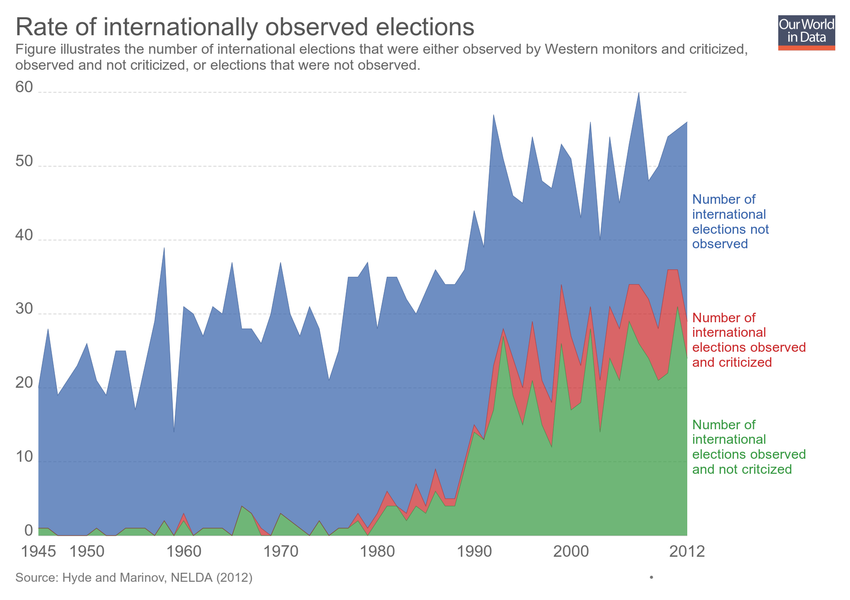
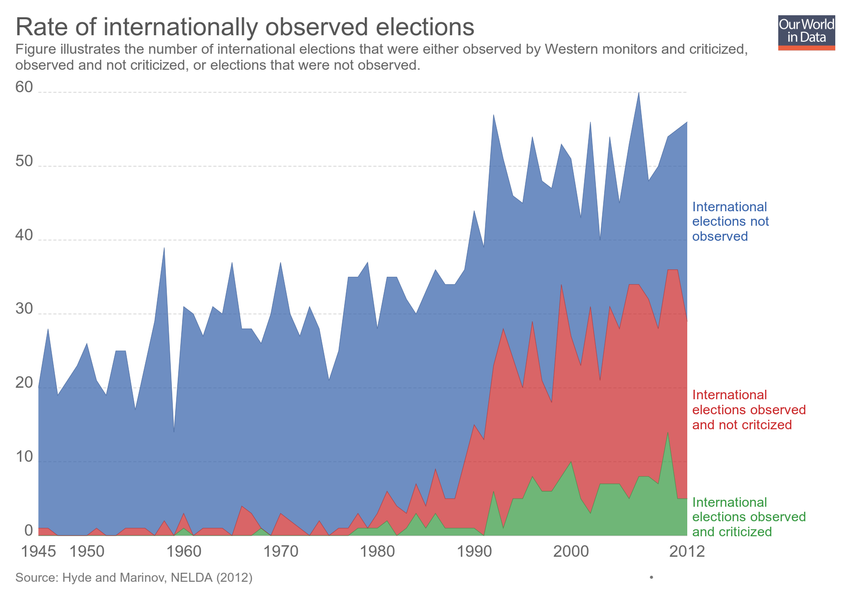
Updating chart rate-of-internationally-observed-elections

Changed region(s): [[0.0918, 0.51, 0.9482, 0.9], [0.7953, 0.33, 0.9176, 0.42], [0.0306, 0.87, 0.0612, 0.9]]

diff --git a/grapher/rate-of-internationally-observed-elections.html b/grapher/rate-of-internationally-observed-elections.html
@@ -1,4 +1,4 @@
-<!doctype html><html><head><meta name="viewport" content="width=device-width, initial-scale=1" /><title>Rate of internationally observed elections - Our World in Data</title><meta name="description" content="Figure illustrates the number of international elections that were either observed by Western monitors and criticized, observed and not criticized, or elections that were not observed." /><link rel="canonical" href="https://ourworldindata.org/grapher/rate-of-internationally-observed-elections" /><meta property="fb:app_id" content="1149943818390250" /><meta property="og:url" content="https://ourworldindata.org/grapher/rate-of-internationally-observed-elections" /><meta property="og:title" content="Rate of internationally observed elections" /><meta property="og:description" content="Figure illustrates the number of international elections that were either observed by Western monitors and criticized, observed and not criticized, or elections that were not observed." /><meta property="og:image" content="https://ourworldindata.org/grapher/exports/rate-of-internationally-observed-elections.png?v=1" /><meta property="og:image:width" content="850" /><meta property="og:image:height" content="600" /><meta property="og:site_name" content="Our World in Data" /><meta name="twitter:card" content="summary_large_image" /><meta name="twitter:site" content="@OurWorldInData" /><meta name="twitter:creator" content="@OurWorldInData" /><meta name="twitter:title" content="Rate of internationally observed elections" /><meta name="twitter:description" content="Figure illustrates the number of international elections that were either observed by Western monitors and criticized, observed and not criticized, or elections that were not observed." /><meta name="twitter:image" content="https://ourworldindata.org/grapher/exports/rate-of-internationally-observed-elections.png?v=1" /><style>
+<!doctype html><html><head><meta name="viewport" content="width=device-width, initial-scale=1" /><title>Rate of internationally observed elections - Our World in Data</title><meta name="description" content="Figure illustrates the number of international elections that were either observed by Western monitors and criticized, observed and not criticized, or elections that were not observed." /><link rel="canonical" href="https://ourworldindata.org/grapher/rate-of-internationally-observed-elections" /><meta property="fb:app_id" content="1149943818390250" /><meta property="og:url" content="https://ourworldindata.org/grapher/rate-of-internationally-observed-elections" /><meta property="og:title" content="Rate of internationally observed elections" /><meta property="og:description" content="Figure illustrates the number of international elections that were either observed by Western monitors and criticized, observed and not criticized, or elections that were not observed." /><meta property="og:image" content="https://ourworldindata.org/grapher/exports/rate-of-internationally-observed-elections.png?v=3" /><meta property="og:image:width" content="850" /><meta property="og:image:height" content="600" /><meta property="og:site_name" content="Our World in Data" /><meta name="twitter:card" content="summary_large_image" /><meta name="twitter:site" content="@OurWorldInData" /><meta name="twitter:creator" content="@OurWorldInData" /><meta name="twitter:title" content="Rate of internationally observed elections" /><meta name="twitter:description" content="Figure illustrates the number of international elections that were either observed by Western monitors and criticized, observed and not criticized, or elections that were not observed." /><meta name="twitter:image" content="https://ourworldindata.org/grapher/exports/rate-of-internationally-observed-elections.png?v=3" /><style>
         html, body {
             height: 100%;
             margin: 0;
@@ -20,8 +20,8 @@
         }
     </style><noscript><style>
                     figure { display: none !important; }
-                </style></noscript><link rel="stylesheet" href="https://ourworldindata.org/grapher/assets/commons.bundle.a7ce280024c736539280.css" /><link rel="preload" href="/grapher/data/variables/97399+97400+97401.json?v=1" as="fetch" crossorigin /></head><body class="singleChart"><figure data-grapher-src="/grapher/rate-of-internationally-observed-elections"></figure><noscript id="fallback"><img src="/grapher/exports/rate-of-internationally-observed-elections.svg" /><p>Interactive visualization requires JavaScript</p></noscript><script src="https://cdn.polyfill.io/v2/polyfill.min.js?features=es6,fetch"></script><script src="https://ourworldindata.org/grapher/assets/commons.bundle.a7ce280024c736539280.js"></script><script src="https://ourworldindata.org/grapher/assets/charts.bundle.dcf65b68eddaba4c6a58.js"></script><script>
-        var jsonConfig = {"map":{"projection":"World","colorSchemeLabels":[],"colorSchemeValues":[],"customNumericColors":[],"customCategoryColors":{},"customCategoryLabels":{},"customHiddenCategories":{}},"tab":"chart","slug":"rate-of-internationally-observed-elections","type":"StackedArea","title":"Rate of internationally observed elections","xAxis":{"scaleType":"linear"},"yAxis":{"min":0,"scaleType":"linear"},"version":1,"subtitle":"Figure illustrates the number of international elections that were either observed by Western monitors and criticized, observed and not criticized, or elections that were not observed.","hasMapTab":false,"stackMode":"absolute","dimensions":[{"display":{"name":"Number of international elections not observed"},"property":"y","variableId":97399},{"display":{"name":"Number of international elections observed and criticized"},"property":"y","variableId":97400},{"display":{"name":"Number of international elections observed and not critcized"},"property":"y","variableId":97401}],"isAutoSlug":true,"hasChartTab":true,"isPublished":true,"selectedData":[{"index":0,"entityId":355},{"index":1,"entityId":355},{"index":2,"entityId":355}],"addCountryMode":"change-country","baseColorScheme":"owid-distinct","invertColorScheme":true,"hideTitleAnnotation":true,"id":2598};
+                </style></noscript><link rel="stylesheet" href="https://ourworldindata.org/grapher/assets/commons.bundle.a7ce280024c736539280.css" /><link rel="preload" href="/grapher/data/variables/97399+97400+97401.json?v=3" as="fetch" crossorigin /></head><body class="singleChart"><figure data-grapher-src="/grapher/rate-of-internationally-observed-elections"></figure><noscript id="fallback"><img src="/grapher/exports/rate-of-internationally-observed-elections.svg" /><p>Interactive visualization requires JavaScript</p></noscript><script src="https://cdn.polyfill.io/v2/polyfill.min.js?features=es6,fetch"></script><script src="https://ourworldindata.org/grapher/assets/commons.bundle.a7ce280024c736539280.js"></script><script src="https://ourworldindata.org/grapher/assets/charts.bundle.dcf65b68eddaba4c6a58.js"></script><script>
+        var jsonConfig = {"id":2598,"map":{"projection":"World","colorSchemeLabels":[],"colorSchemeValues":[],"customNumericColors":[],"customCategoryColors":{},"customCategoryLabels":{},"customHiddenCategories":{}},"tab":"chart","slug":"rate-of-internationally-observed-elections","type":"StackedArea","title":"Rate of internationally observed elections","xAxis":{"scaleType":"linear"},"yAxis":{"min":0,"scaleType":"linear"},"version":3,"subtitle":"Figure illustrates the number of international elections that were either observed by Western monitors and criticized, observed and not criticized, or elections that were not observed.","hasMapTab":false,"stackMode":"absolute","dimensions":[{"display":{"name":"International elections not observed"},"property":"y","variableId":97399},{"display":{"name":"International elections observed and criticized"},"property":"y","variableId":97400},{"display":{"name":"International elections observed and not critcized"},"property":"y","variableId":97401}],"hasChartTab":true,"isPublished":true,"selectedData":[{"index":0,"entityId":355},{"index":2,"entityId":355},{"index":1,"entityId":355}],"addCountryMode":"change-country","baseColorScheme":"owid-distinct","invertColorScheme":true,"hideTitleAnnotation":true};
         var figure = document.getElementsByTagName("figure")[0];
         try {
             window.App = {};
